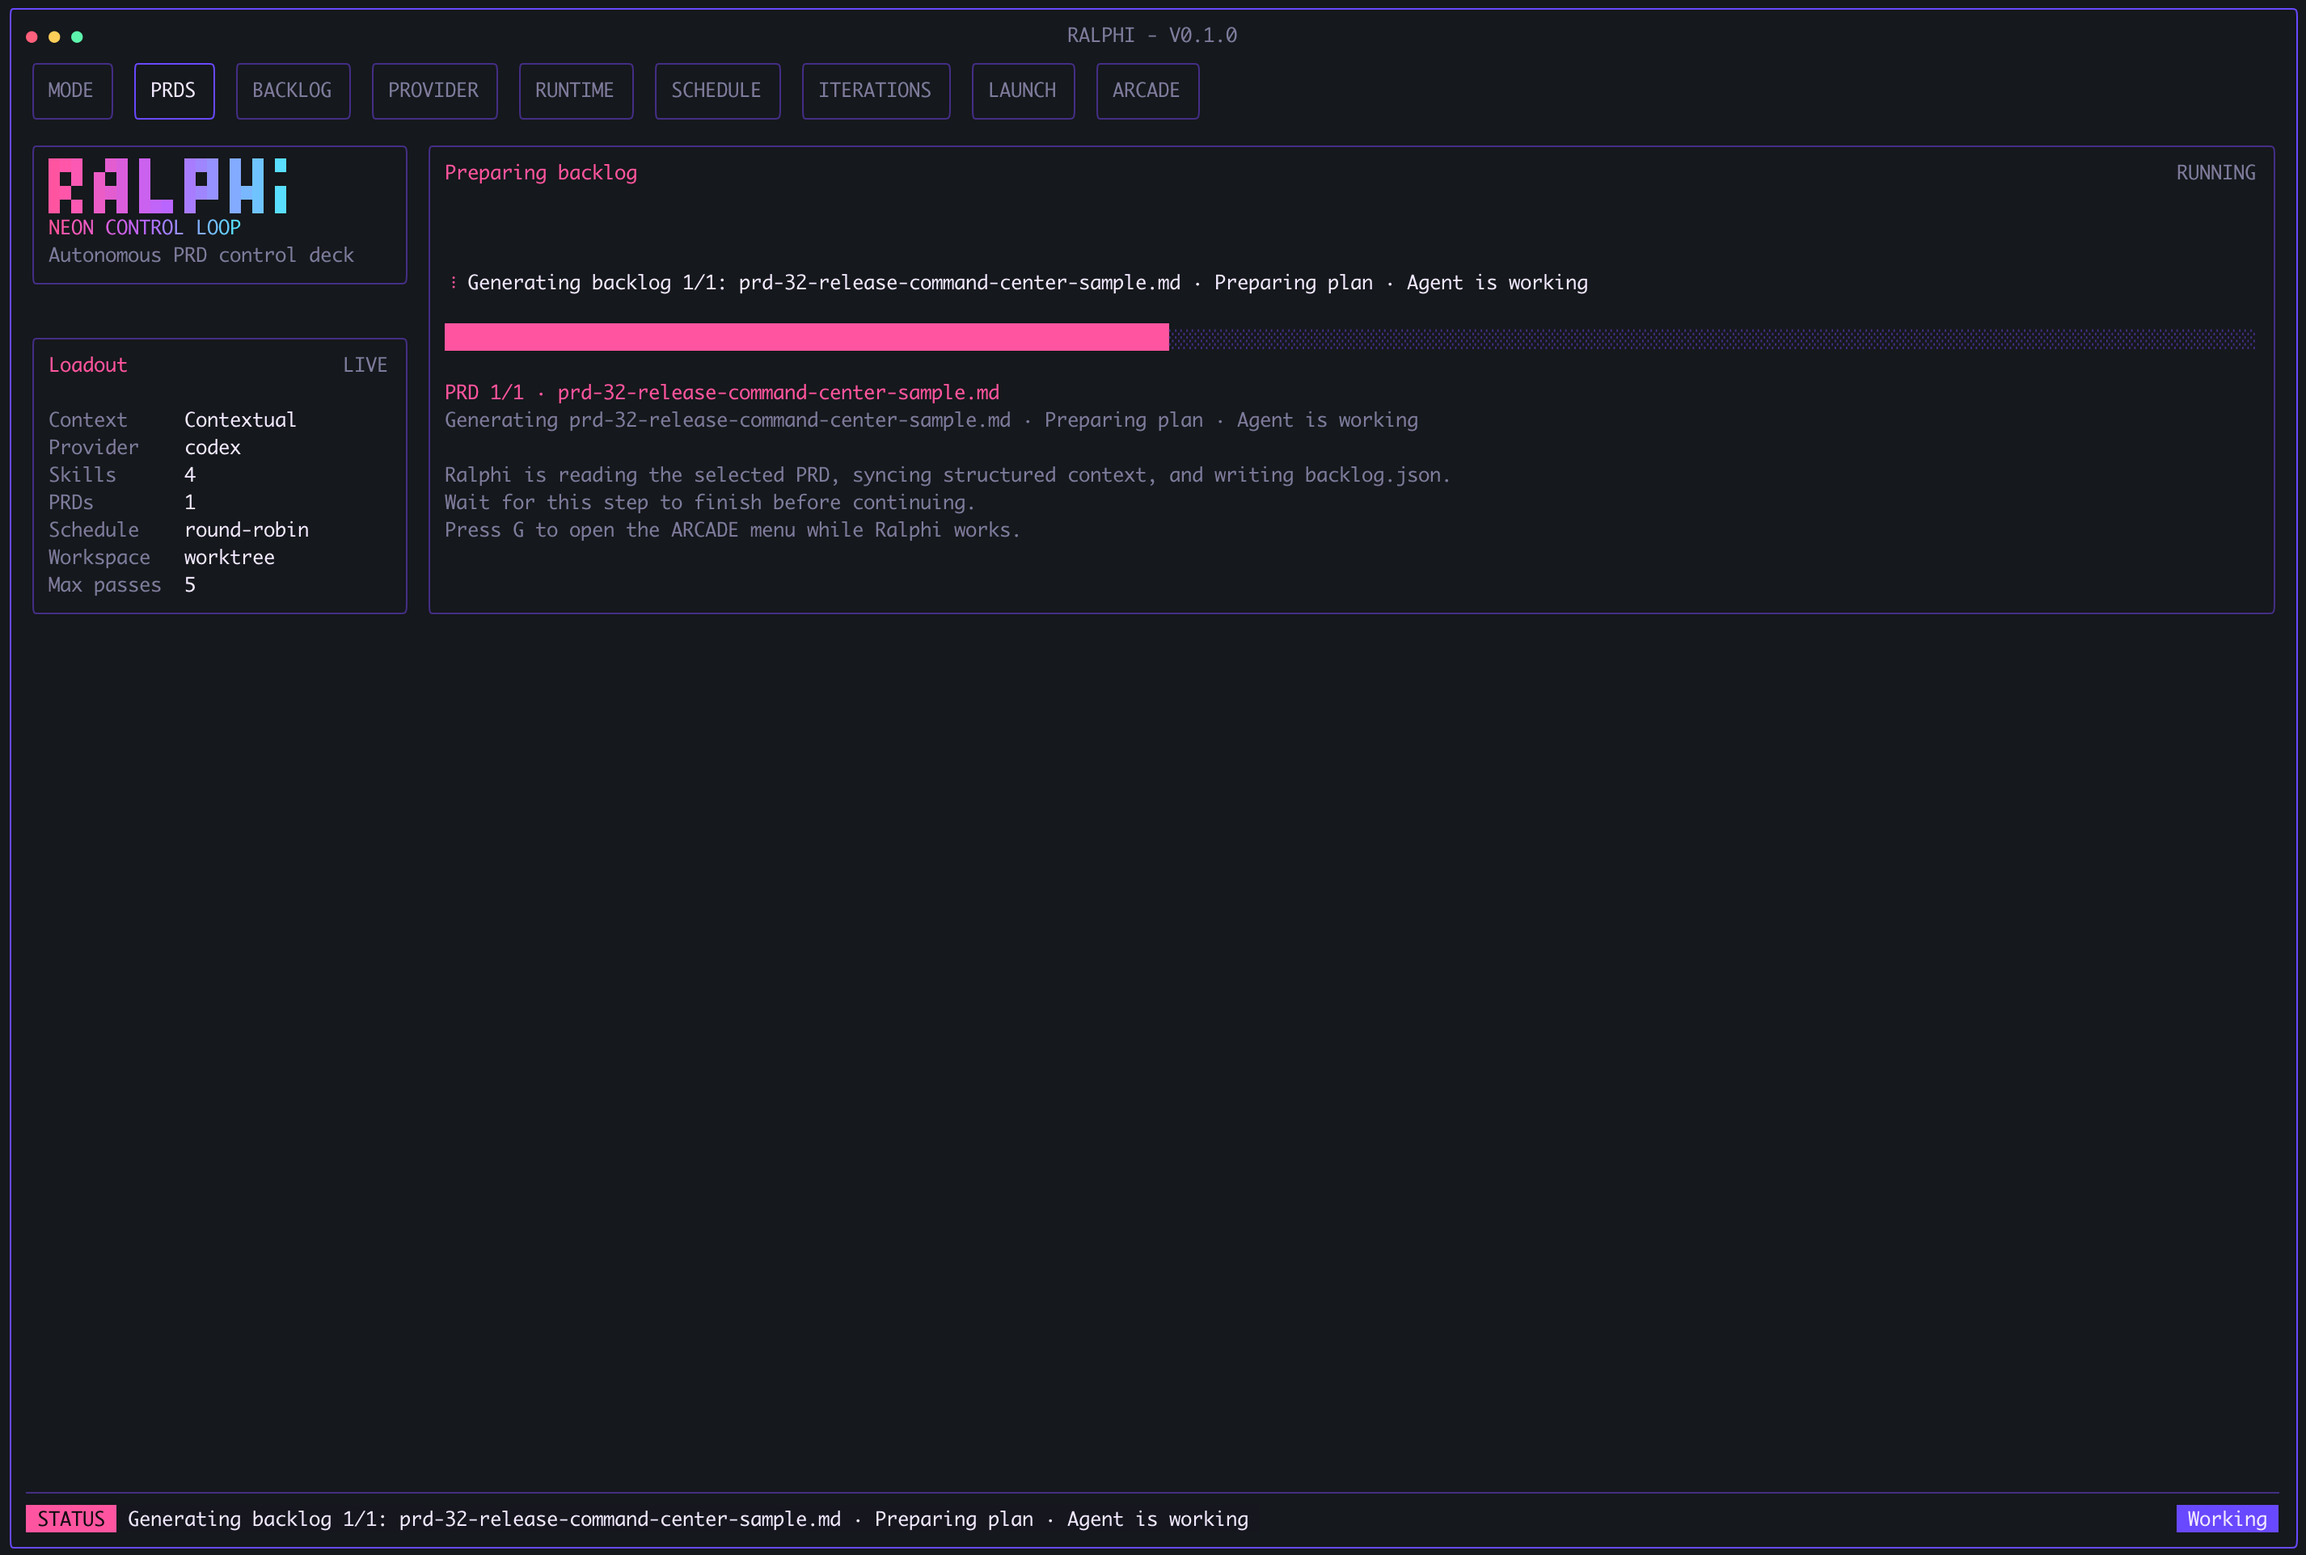
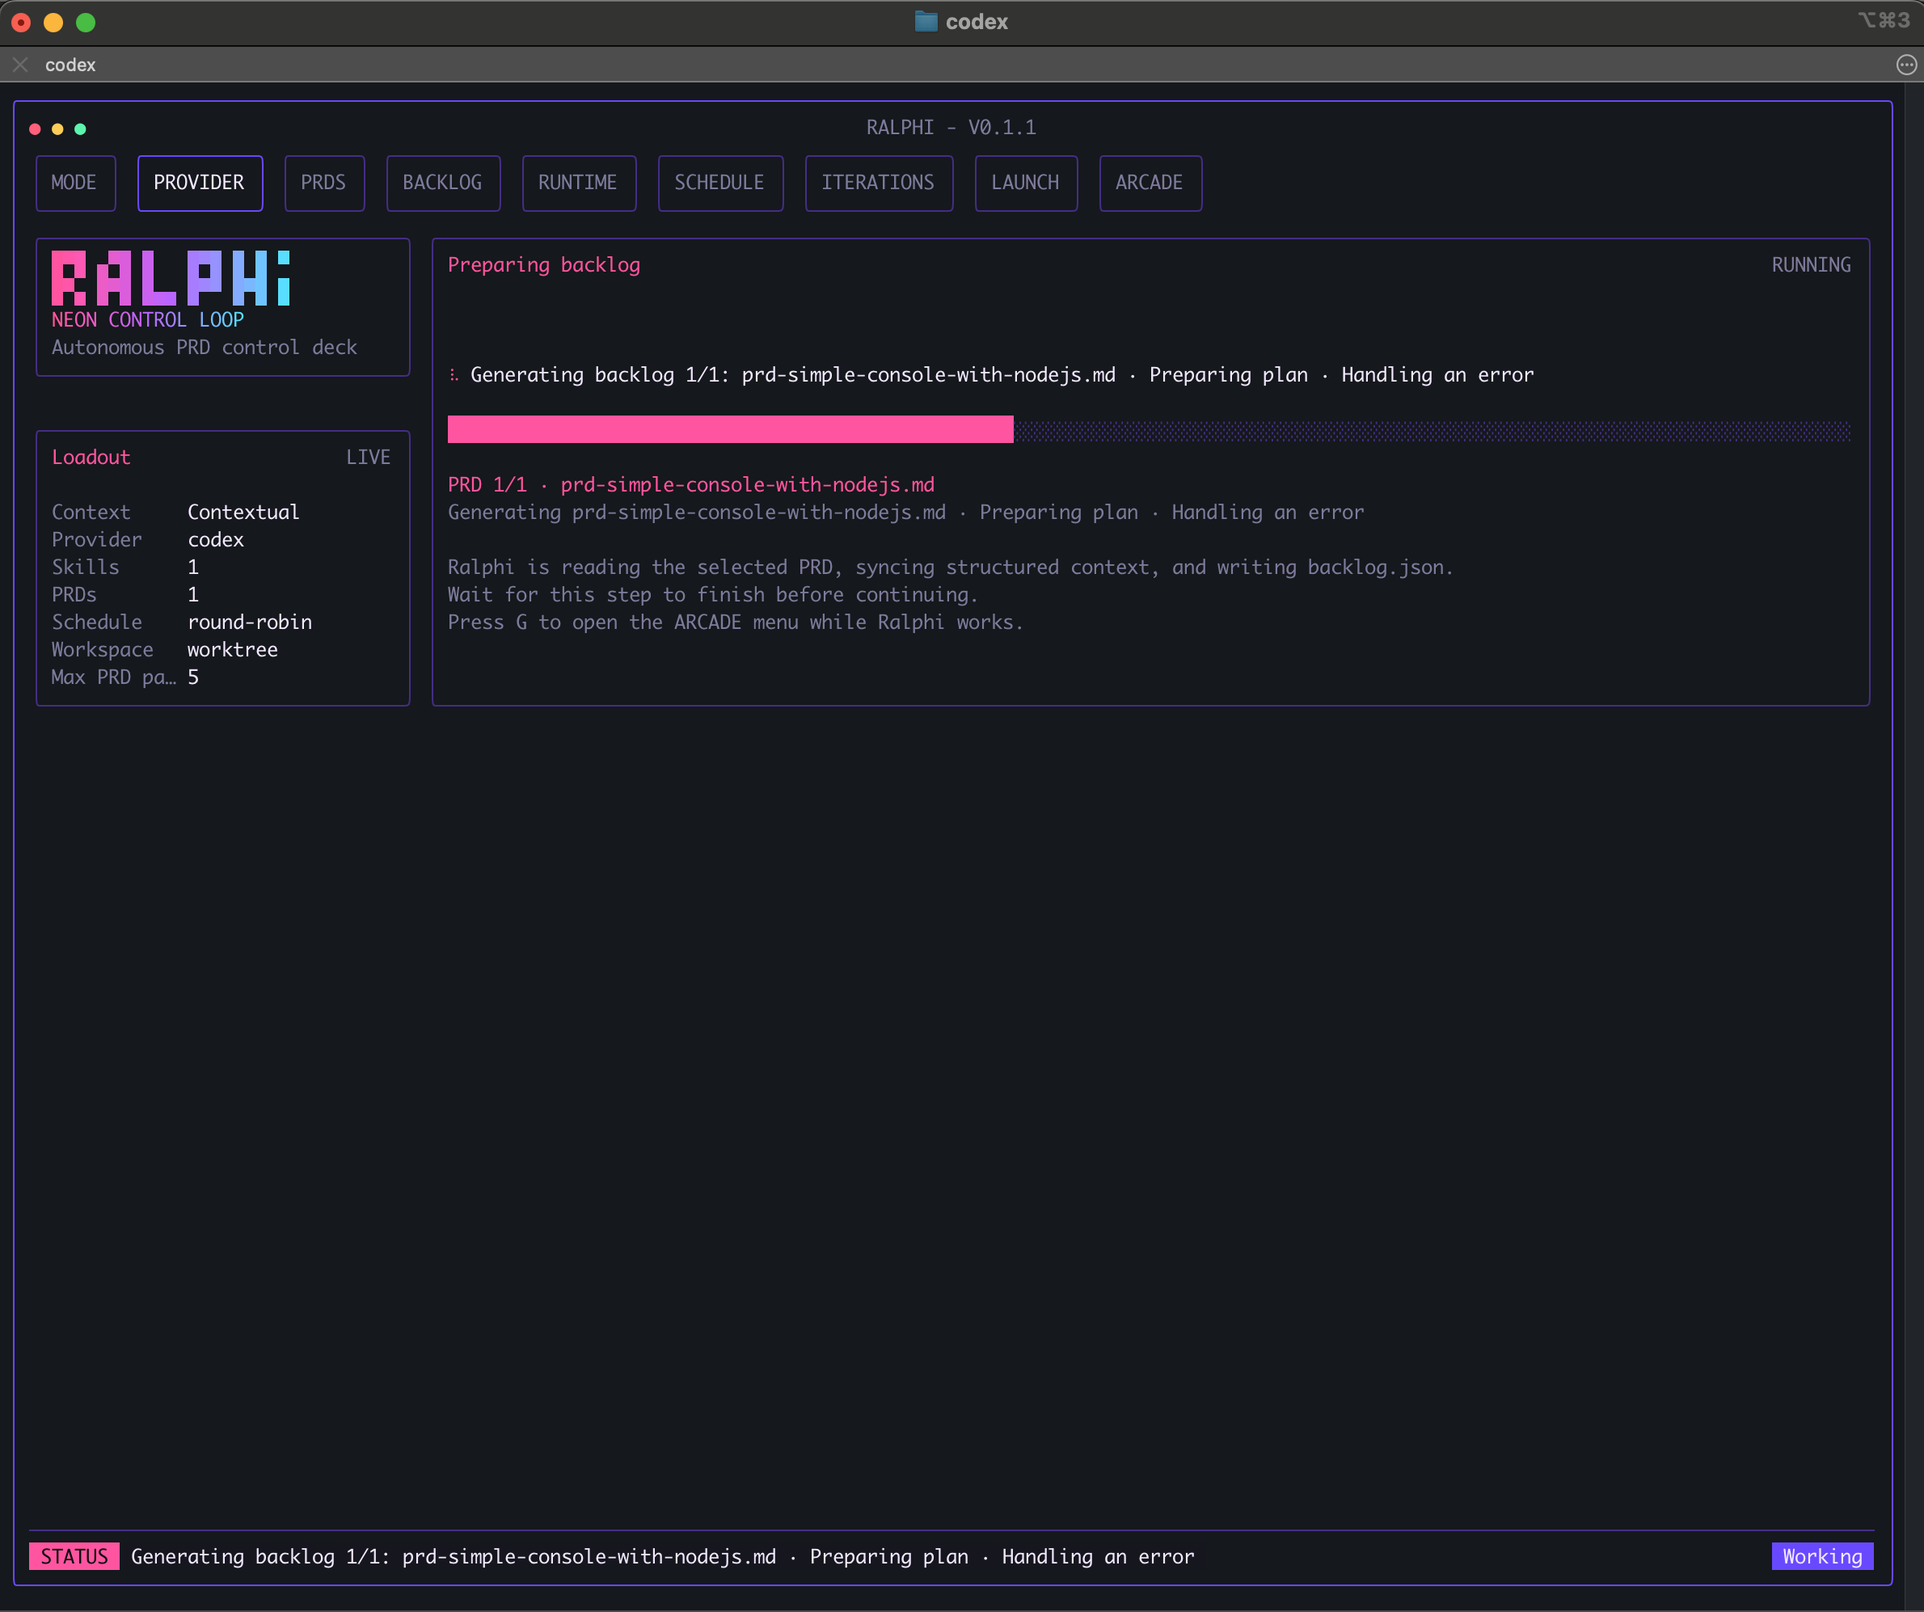
chore: align ralphi branding and polish UX

diff --git a/src/ui/wizard.tsx b/src/ui/wizard.tsx
@@ -4064,7 +4064,7 @@ function WizardApp({
                 </Box>
                 <Box marginTop={1} flexDirection="column">
                   {pendingRunOptions.map((option, index) => (
-                    <ChoiceRow key={option.value} active={index === pendingRunIndex} label={option.label} description={option.description} />
+                    <ChoiceRow compact key={option.value} active={index === pendingRunIndex} label={option.label} description={option.description} />
                   ))}
                 </Box>
                 <HintLine>Use ↑ ↓ and Enter. q cancels the wizard.</HintLine>
@@ -4074,7 +4074,7 @@ function WizardApp({
             {screen === 'home' && (
               <SectionPanel title="Select a launch mode" subtitle="ENTRY" flexGrow={1}>
                 {homeOptions.map((option, index) => (
-                  <ChoiceRow key={option.value} active={index === homeIndex} label={option.label} description={option.description} />
+                  <ChoiceRow compact key={option.value} active={index === homeIndex} label={option.label} description={option.description} />
                 ))}
                 <HintLine>Use ↑ ↓ and Enter. q cancels.</HintLine>
               </SectionPanel>
@@ -4087,7 +4087,7 @@ function WizardApp({
                 </Text>
                 <Box marginTop={1} flexDirection="column">
                   {notificationMenuOptions.map((option, index) => (
-                    <ChoiceRow
+                    <ChoiceRow compact
                       key={option.value}
                       active={index === notificationMenuCursor}
                       label={option.label}
@@ -4390,7 +4390,7 @@ function WizardApp({
                           ? 'No provider skill directory was found in this project or in your home folder.'
                           : `Browse ${directorySkills.length} provider skill${directorySkills.length === 1 ? '' : 's'} from project/global directories.`;
 
-                    return <ChoiceRow key={option.value} active={index === skillModeIndex} label={option.label} description={description} />;
+                    return <ChoiceRow compact key={option.value} active={index === skillModeIndex} label={option.label} description={description} />;
                   })}
                 </Box>
                 <HintLine>Use ↑ ↓ and Enter. Left arrow returns to the previous step.</HintLine>
@@ -4407,7 +4407,7 @@ function WizardApp({
                 {directorySkillWindow.values.map((skill, index) => {
                   const absoluteIndex = directorySkillWindow.start + index;
                   return (
-                    <ChoiceRow
+                    <ChoiceRow compact
                       key={skill.id}
                       active={absoluteIndex === directorySkillCursor}
                       label={skill.name}
@@ -4453,7 +4453,7 @@ function WizardApp({
                 </Box>
                 <Box marginTop={1} flexDirection="column">
                   {briefCreatedOptions.map((option, index) => (
-                    <ChoiceRow key={option.value} active={index === briefCreatedIndex} label={option.label} description={option.description} />
+                    <ChoiceRow compact key={option.value} active={index === briefCreatedIndex} label={option.label} description={option.description} />
                   ))}
                 </Box>
                 <HintLine>Enter confirms. Left arrow returns to the brief editor.</HintLine>
@@ -4637,10 +4637,19 @@ function WizardApp({
 
             {screen === 'provider' && (
               <SectionPanel title="Select provider" subtitle="CONFIG" flexGrow={1}>
-                <Text color={palette.dim}>Choose the provider before PRD setup so draft generation, backlog generation, and execution all use the same runtime.</Text>
-                {providerOptions.map((option, index) => (
-                  <ChoiceRow key={option.value} active={index === providerIndex} label={option.value} />
-                ))}
+                <Text color={palette.dim}>Choose the provider for this launch.</Text>
+                <Box marginTop={1} flexDirection="column">
+                  {providerOptions.map((option, index) => (
+                    <Box key={option.value} flexShrink={1}>
+                      <Text color={index === providerIndex ? palette.accent : palette.dim}>{index === providerIndex ? '> ' : '  '}</Text>
+                      <Box flexGrow={1} flexShrink={1}>
+                        <Text color={index === providerIndex ? palette.text : palette.dim} wrap="truncate-end">
+                          {option.value}
+                        </Text>
+                      </Box>
+                    </Box>
+                  ))}
+                </Box>
                 <Box marginTop={1} flexDirection="column">
                   <Text color={palette.accent}>{activeProvider.value}</Text>
                   {activeProviderStructureLines.map(line => (
@@ -4708,7 +4717,7 @@ function WizardApp({
                 </Text>
                 <Box marginTop={1} flexDirection="column">
                   {providerSkillDecisionOptions.map((option, index) => (
-                    <ChoiceRow
+                    <ChoiceRow compact
                       key={option.value}
                       active={index === providerSkillActionIndex}
                       label={option.label}
@@ -4726,7 +4735,7 @@ function WizardApp({
             {screen === 'environment' && (
               <SectionPanel title="Choose runtime" subtitle="EXECUTION" flexGrow={1}>
                 {availableEnvironmentOptions.map((option, index) => (
-                  <ChoiceRow key={option.value} active={index === environmentIndex} label={option.label} description={option.description} />
+                  <ChoiceRow compact key={option.value} active={index === environmentIndex} label={option.label} description={option.description} />
                 ))}
                 <Box marginTop={1} flexDirection="column">
                   <HintLine>
@@ -4742,7 +4751,7 @@ function WizardApp({
             {screen === 'schedule' && (
               <SectionPanel title="Choose execution strategy" subtitle="ORCHESTRATION" flexGrow={1}>
                 {scheduleOptions.map((option, index) => (
-                  <ChoiceRow key={option.value} active={index === scheduleIndex} label={option.value} description={option.description} />
+                  <ChoiceRow compact key={option.value} active={index === scheduleIndex} label={option.value} description={option.description} />
                 ))}
                 <HintLine>
                   {selectedPrdPaths.length === 1
@@ -4879,7 +4888,7 @@ function WizardApp({
                 {screen === 'skills-menu' && (
                   <Box flexDirection="column">
                     {skillMenuOptions.map((option, index) => (
-                      <ChoiceRow key={option.value} active={index === skillMenuIndex} label={option.label} description={option.description} />
+                      <ChoiceRow compact key={option.value} active={index === skillMenuIndex} label={option.label} description={option.description} />
                     ))}
                     <Box marginTop={1} flexDirection="column">
                       <Text color={palette.accent}>Built-in skills</Text>
@@ -4983,7 +4992,7 @@ function WizardApp({
                     </Text>
                     <Box marginTop={1} flexDirection="column">
                       {skillTargetOptions.map((option, index) => (
-                        <ChoiceRow key={option.value} active={index === skillTargetIndex} label={option.label} description={option.description} />
+                        <ChoiceRow compact key={option.value} active={index === skillTargetIndex} label={option.label} description={option.description} />
                       ))}
                     </Box>
                     <Box marginTop={1} flexDirection="column">
@@ -5000,7 +5009,7 @@ function WizardApp({
                     </Text>
                     <Box marginTop={1} flexDirection="column">
                       {scopeOptions.map((option, index) => (
-                        <ChoiceRow
+                        <ChoiceRow compact
                           key={option.value}
                           active={index === scopeIndex}
                           label={option.value}

diff --git a/src/ui/components.tsx b/src/ui/components.tsx
@@ -180,15 +180,17 @@ export function ChoiceRow({
   active,
   label,
   description,
-  marker
+  marker,
+  compact
 }: {
   active: boolean;
   label: string;
   description?: string;
   marker?: string;
+  compact?: boolean;
 }) {
   return (
-    <Box flexDirection="column" marginBottom={1} flexShrink={1}>
+    <Box flexDirection="column" marginBottom={compact ? 0 : 1} flexShrink={1}>
       <Box flexShrink={1}>
         <Text color={active ? palette.accent : palette.dim}>{active ? '> ' : '  '}</Text>
         <Box flexGrow={1} flexShrink={1}>
